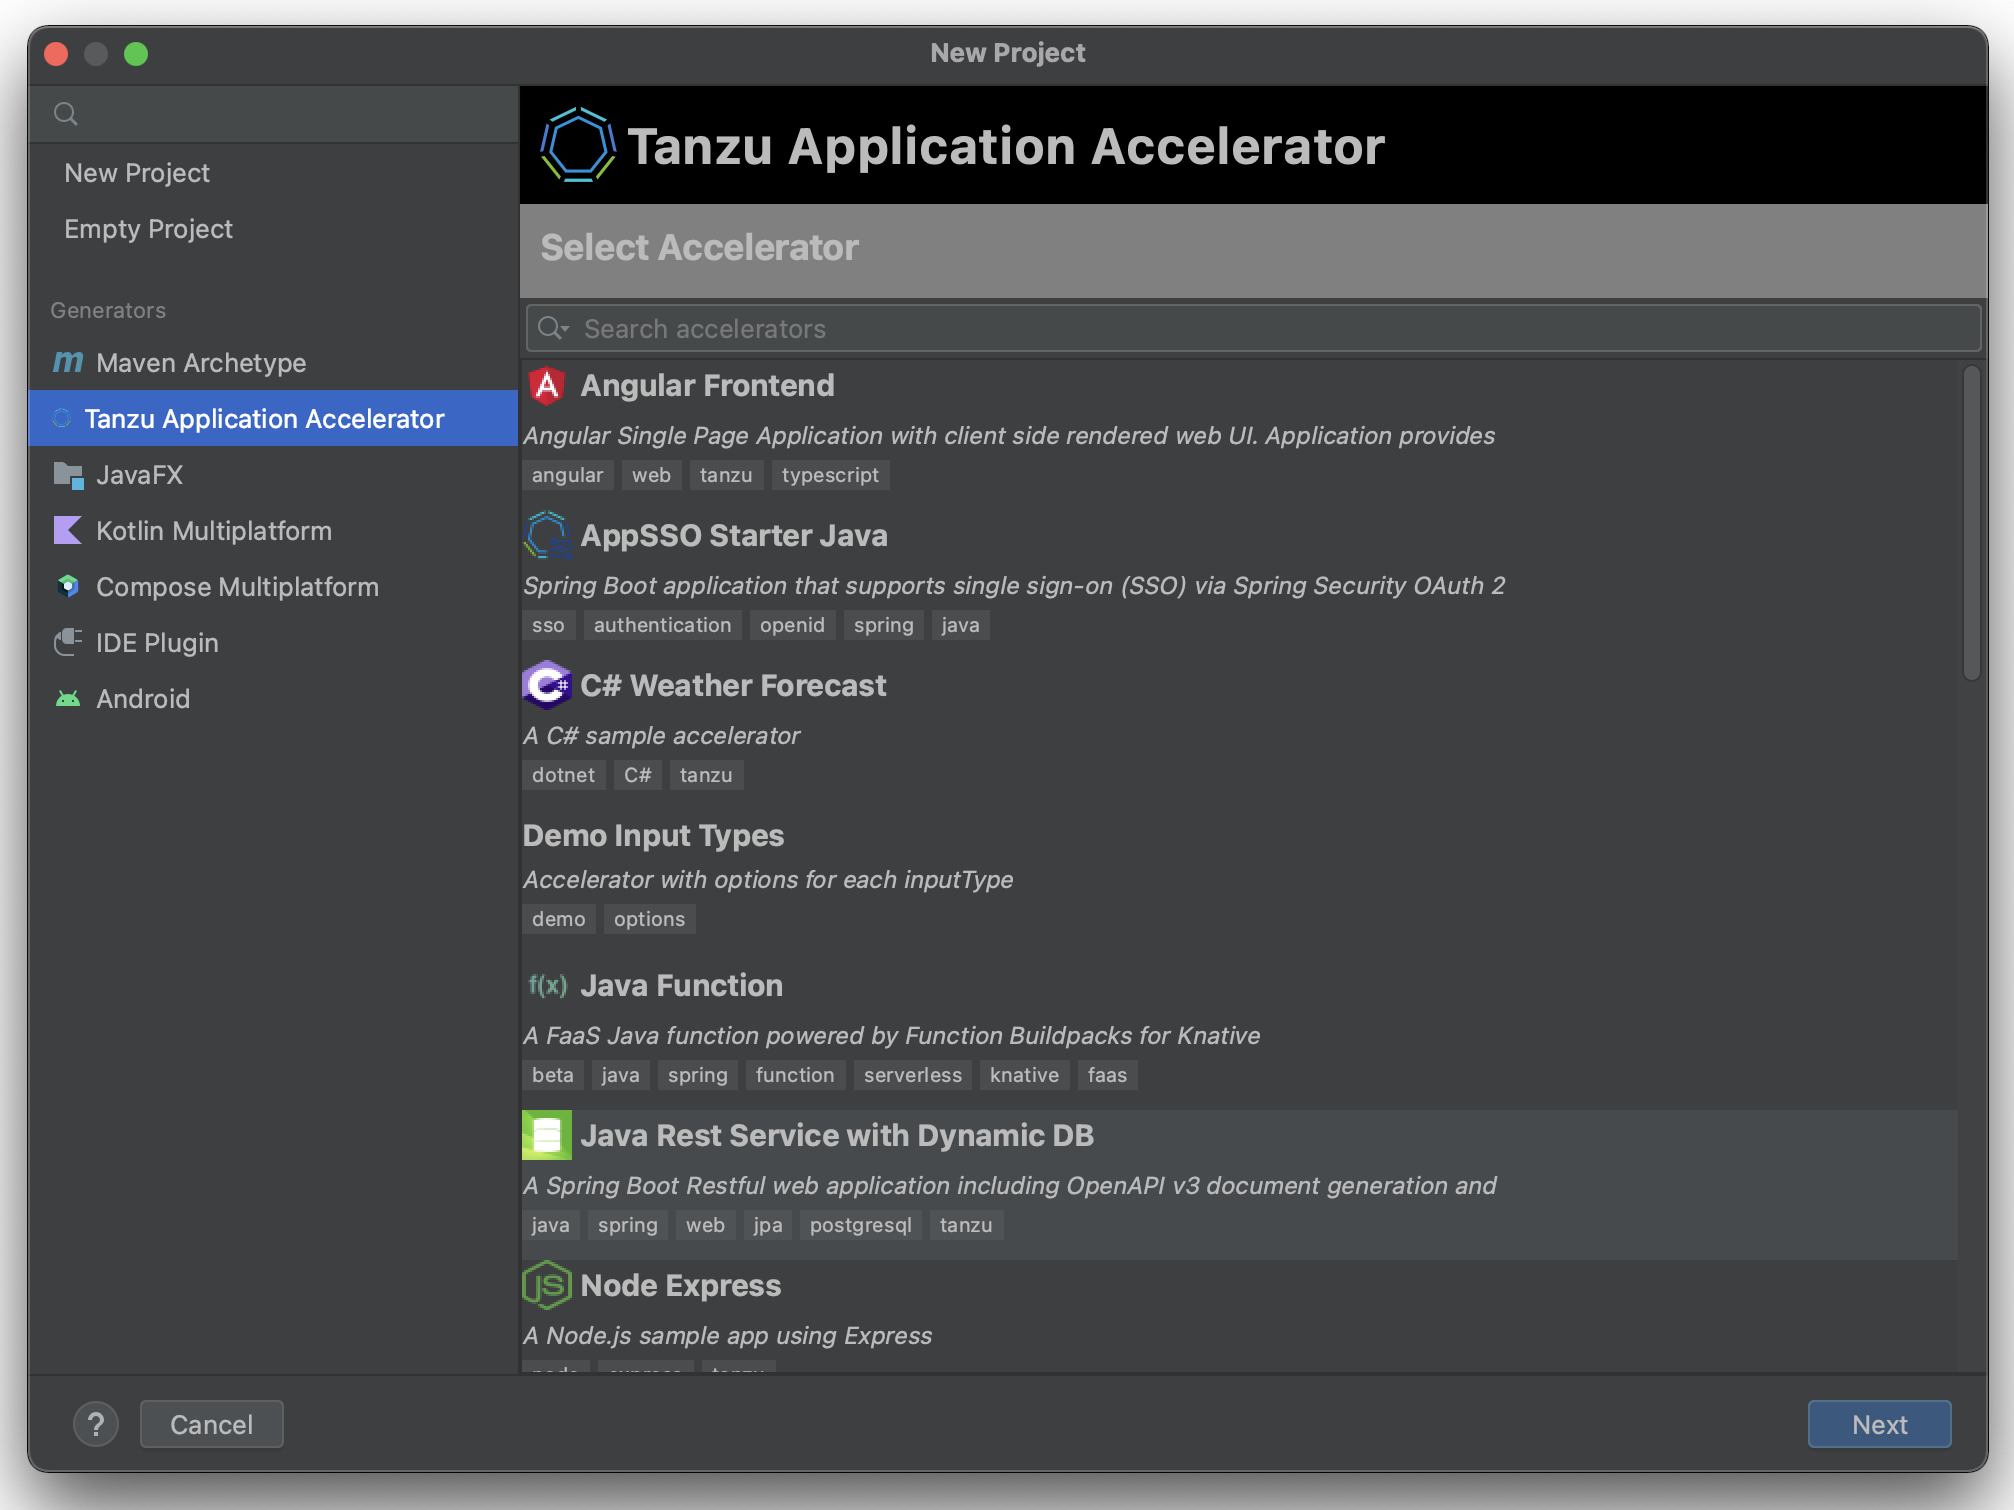
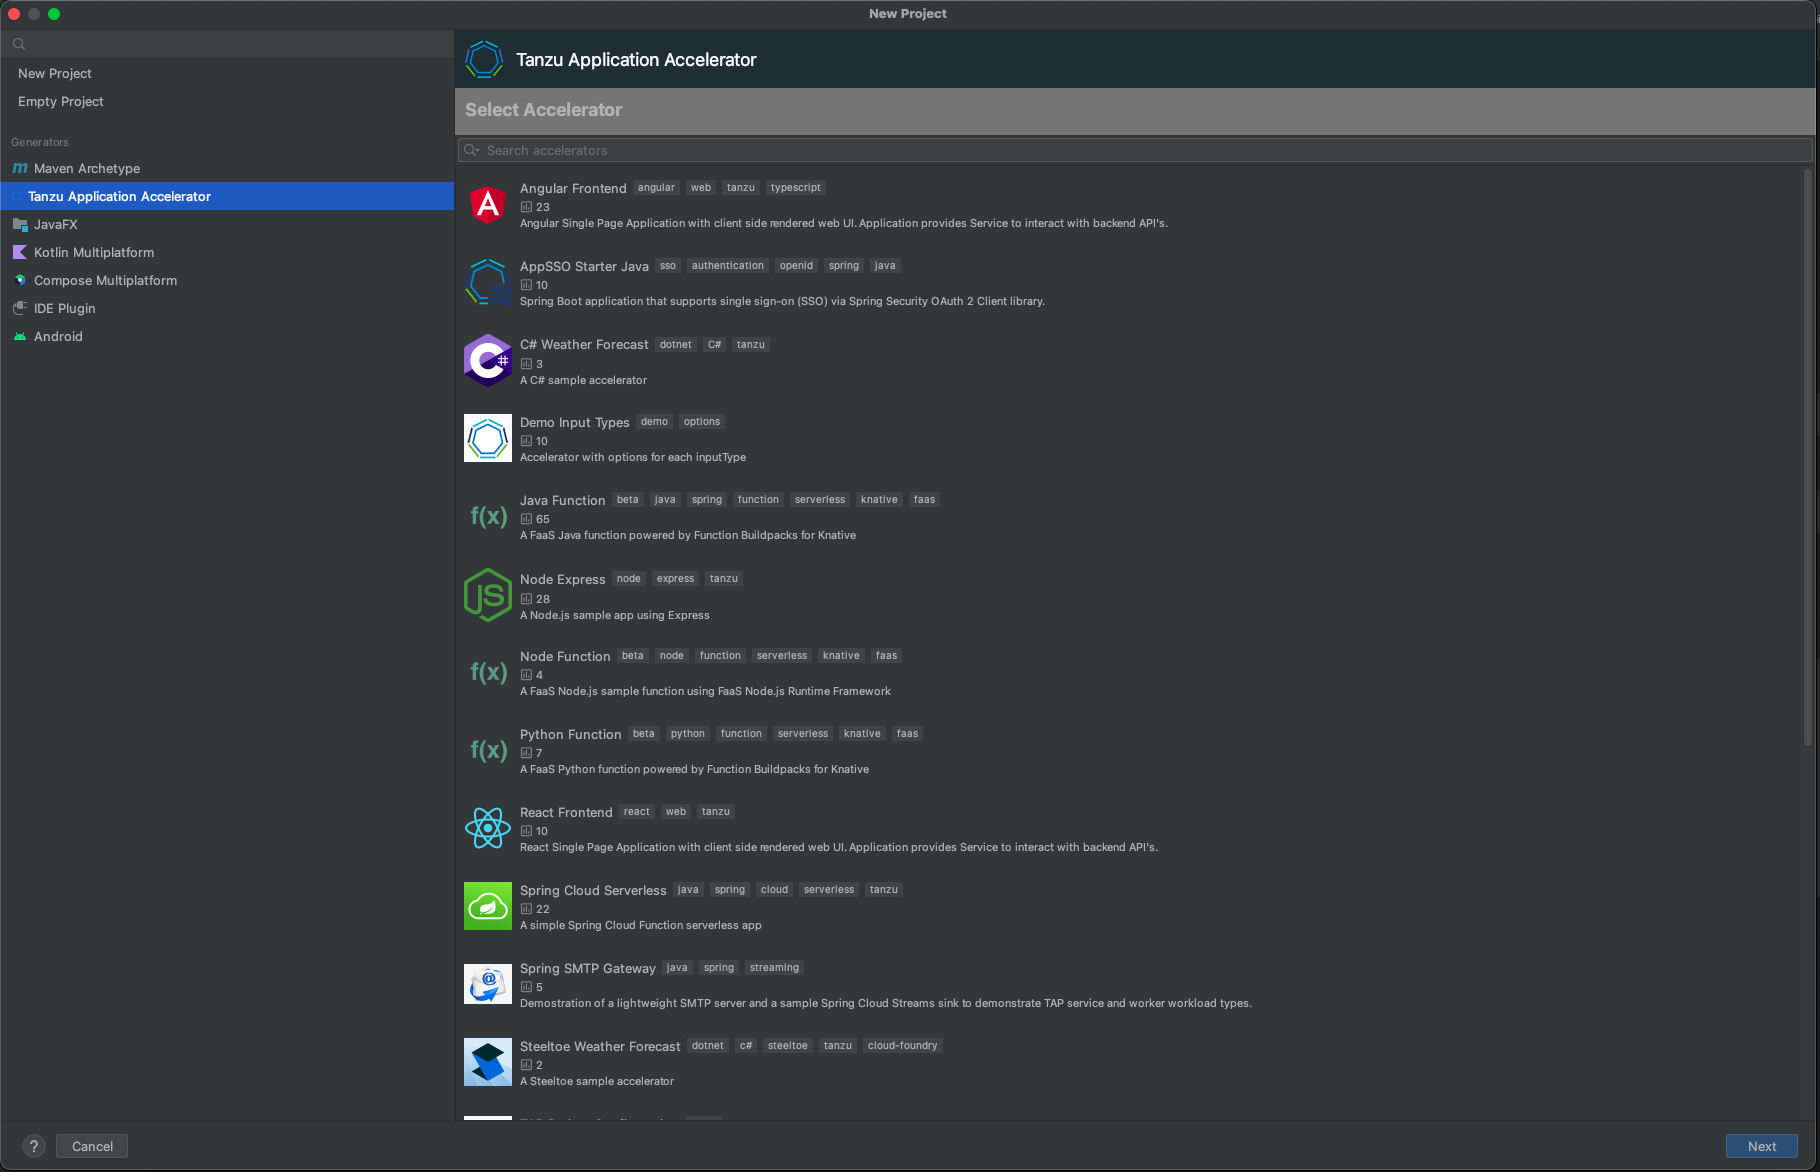
Updated screenshots and added git repository creation step to the app accelearator intellij plugin docs

Changed region(s): [[0.0, 0.0, 1.0, 1.0], [0.6462, 0.8294, 0.6769, 0.8601]]

diff --git a/application-accelerator/intellij.hbs.md b/application-accelerator/intellij.hbs.md
@@ -18,11 +18,11 @@ Use the following steps to install the Application Accelerator IntelliJ plug-in:
 
 2. Open IntelliJ
 
-    1. From the `Plugins` section, select the Gear button and select **Install Plugin from Disk...**
+   1. From the `Plugins` section, select the Gear button and select **Install Plugin from Disk...**
 
-        ![Install Plugin from Disk menu action.](../images/app-accelerator/intellij/app-accelerators-intellij-install-from-disk.png)
+      ![Install Plugin from Disk menu action.](../images/app-accelerator/intellij/app-accelerators-intellij-install-from-disk.png)
 
-    2. Select the plug-in zip file and restart IntelliJ.
+   2. Select the plug-in zip file and restart IntelliJ.
 
 ## <a id="intellij-conf-plugin"></a> Configure the plug-in
 
@@ -32,11 +32,11 @@ Before using the plug-in, you must enter the Tanzu Application Platform GUI URL 
 
 2. Add the Tanzu Application Platform GUI URL. For example, `https://tap-gui.myclusterdomain.myorg.com`. If you have access to the Tanzu Application Platform cluster that is running the Tanzu Application Platform GUI, run the following command to determine the fully-qualified domain name:
 
-  ```console
-  kubectl get httpproxy tap-gui -n tap-gui
-  ```
+```console
+kubectl get httpproxy tap-gui -n tap-gui
+```
 
-  ![Tanzu Application Accelerator preferences.](../images/app-accelerator/intellij/app-accelerators-intellij-preferences.png)
+![Tanzu Application Accelerator preferences.](../images/app-accelerator/intellij/app-accelerators-intellij-preferences.png)
 
 3. Click **Apply** and **OK**.
 
@@ -46,20 +46,27 @@ After adding the Tanzu Application Platform GUI URL, you can explore the defined
 
 1. Select **New Project**, then select **Tanzu Application Accelerator**.
 
-    ![Select New Project.](../images/app-accelerator/intellij/app-accelerators-intellij-new-project.png)
+   ![Select New Project.](../images/app-accelerator/intellij/app-accelerators-intellij-new-project.png)
 
-    ![Tanzu Application Accelerator New Project wizard is open.](../images/app-accelerator/intellij/app-accelerators-intellij-accelerator-list.png)
+   ![Tanzu Application Accelerator New Project wizard is open.](../images/app-accelerator/intellij/app-accelerators-intellij-accelerator-list.png)
 
 2. Choose one of the defined accelerators and configure the options.
 
-    ![Options page is open.](../images/app-accelerator/intellij/app-accelerators-intellij-options.png)
+   ![Options page is open.](../images/app-accelerator/intellij/app-accelerators-intellij-options.png)
 
-3. Click `Next` to review the options.
+3. Click `Next` to go to the optional step `create git repository`.
 
-    ![Review page is open.](../images/app-accelerator/intellij/app-accelerators-intellij-review.png)
+   ![Review page is open.](../images/app-accelerator/intellij/app-accelerators-intellij-review.png)
 
-4. Click `Next` to download the project. If the project is downloaded successfully, the
-`Create` button is enabled and you can now create and open the project.
+4. Fill the fields required to create the git repository, a personal access token from the git
+   provider is required, this will be stored in a secured location for future usage, click `Next` to go to the review step.
+
+   ![Git repository creation.](../images/app-accelerator/intellij/app-accelerators-intellij-git-repo-creation.png)
+
+   > Note: this an optional step, the values can be left blank if a repository isn't required.
+
+5. Click `Next` to download the project. If the project is downloaded successfully, the
+   `Create` button is enabled and you can now create and open the project.
 
 ![Download page is open.](../images/app-accelerator/intellij/app-accelerators-intellij-create.png)
 
@@ -87,7 +94,7 @@ To enable communication between the Application Accelerator plug-in and a Tanzu 
 
 [yq](https://github.com/mikefarah/yq) is required to process the YAML output.
 
-1. Find the name of the Tanzu Application Platform GUI certificate. The name of the certificate might look different to the following example.
+1.  Find the name of the Tanzu Application Platform GUI certificate. The name of the certificate might look different to the following example.
 
     ```console
     kubectl get secret -n cert-manager
@@ -102,31 +109,31 @@ To enable communication between the Application Accelerator plug-in and a Tanzu 
     tap-ingress-selfsigned-root-ca                 kubernetes.io/tls                3      18d <------- This is the certificate that is needed
     ```
 
-2. Download the certificate:
+2.  Download the certificate:
 
     ```console
     kubectl get secret -n cert-manager tap-ingress-selfsigned-root-ca -o yaml | yq '.data."ca.crt"' | base64 -d > ca.crt
     ```
 
-3. Install the certificate on your local system and fully restart any applications that use
-the certificate. After restarting, the application uses the certificate
-to communicate with the endpoints using TLS.
+3.  Install the certificate on your local system and fully restart any applications that use
+    the certificate. After restarting, the application uses the certificate
+    to communicate with the endpoints using TLS.
 
-    macOS
-    : Run:
+        macOS
+        : Run:
 
-      ```console
-      sudo security add-trusted-cert -d -r trustRoot -k /Library/Keychains/System.keychain ca.crt
-      ```
+          ```console
+          sudo security add-trusted-cert -d -r trustRoot -k /Library/Keychains/System.keychain ca.crt
+          ```
 
-      For more information, see [Installing a root CA certificate in the trust store](https://ubuntu.com/server/docs/security-trust-store) in the Ubuntu documentation.
+          For more information, see [Installing a root CA certificate in the trust store](https://ubuntu.com/server/docs/security-trust-store) in the Ubuntu documentation.
 
-    Windows
-    : Complete the following steps:
+        Windows
+        : Complete the following steps:
 
-      1. Use Windows Explorer to navigate to the directory where the certificate was downloaded and click on the certificate.
-      2. In the Certificate window, click **Install Certificate...**.
-      3. Change the **Store Location** from **Current User** to **Local Machine**. Click **Next**.
-      4. Select **Place all certificates in the following store**, click **Browse**, and select **Trusted Root Certification Authorities**
-      5. Click **Finish**.
-      6. A pop-up window stating **The import was successful.** is displayed.
+          1. Use Windows Explorer to navigate to the directory where the certificate was downloaded and click on the certificate.
+          2. In the Certificate window, click **Install Certificate...**.
+          3. Change the **Store Location** from **Current User** to **Local Machine**. Click **Next**.
+          4. Select **Place all certificates in the following store**, click **Browse**, and select **Trusted Root Certification Authorities**
+          5. Click **Finish**.
+          6. A pop-up window stating **The import was successful.** is displayed.
